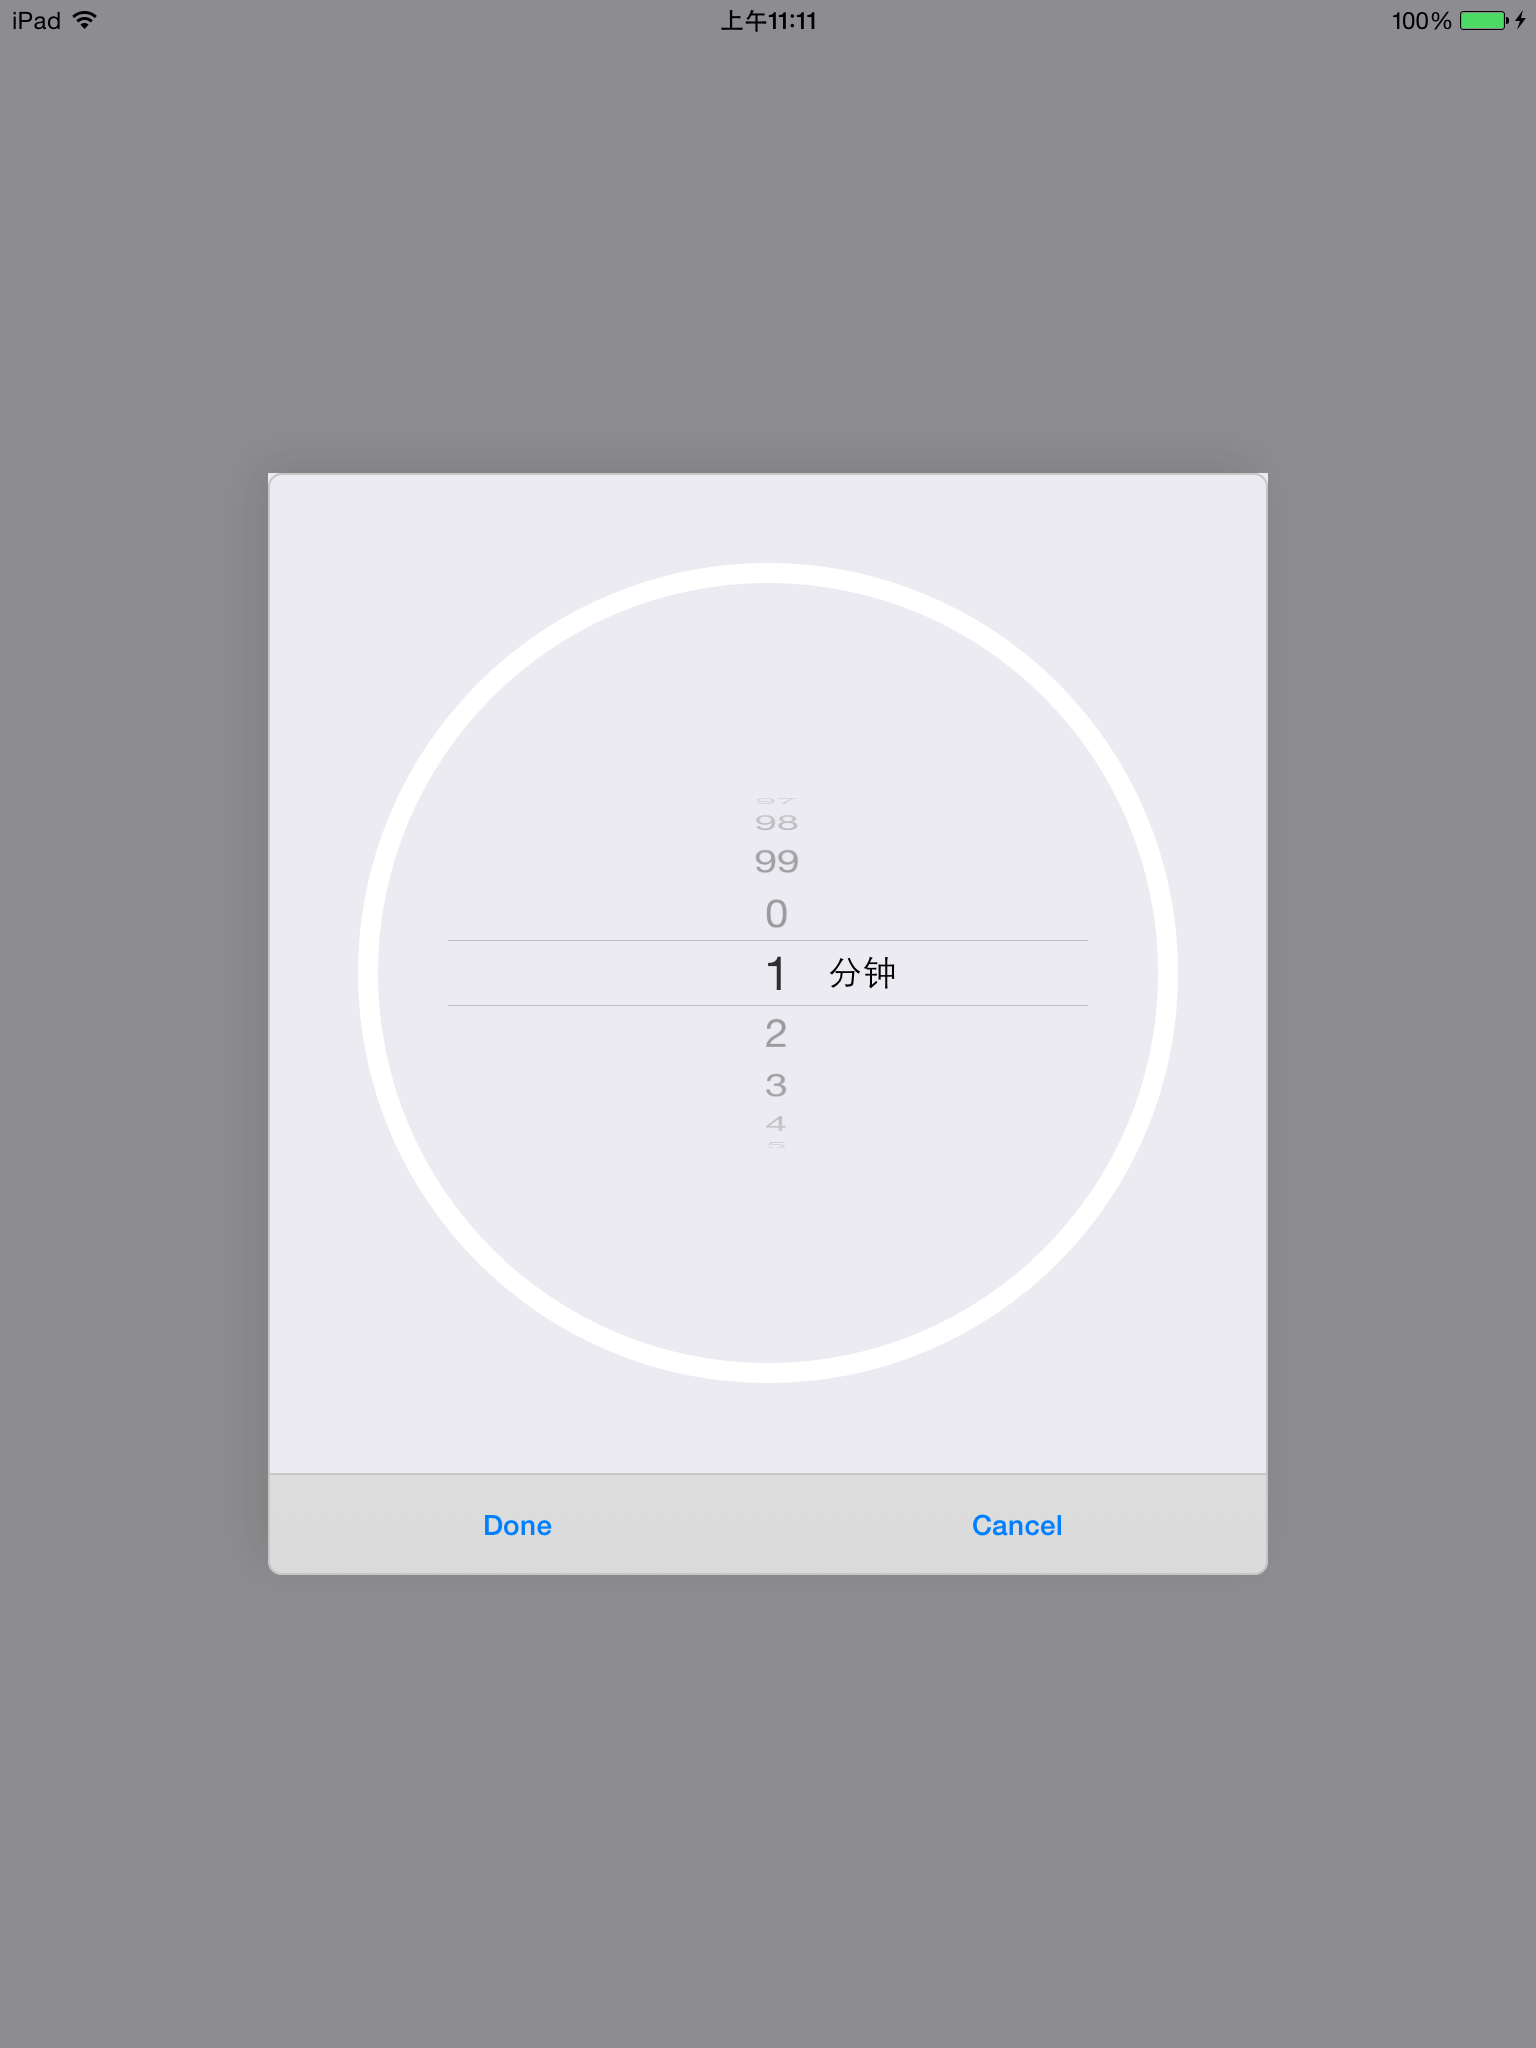
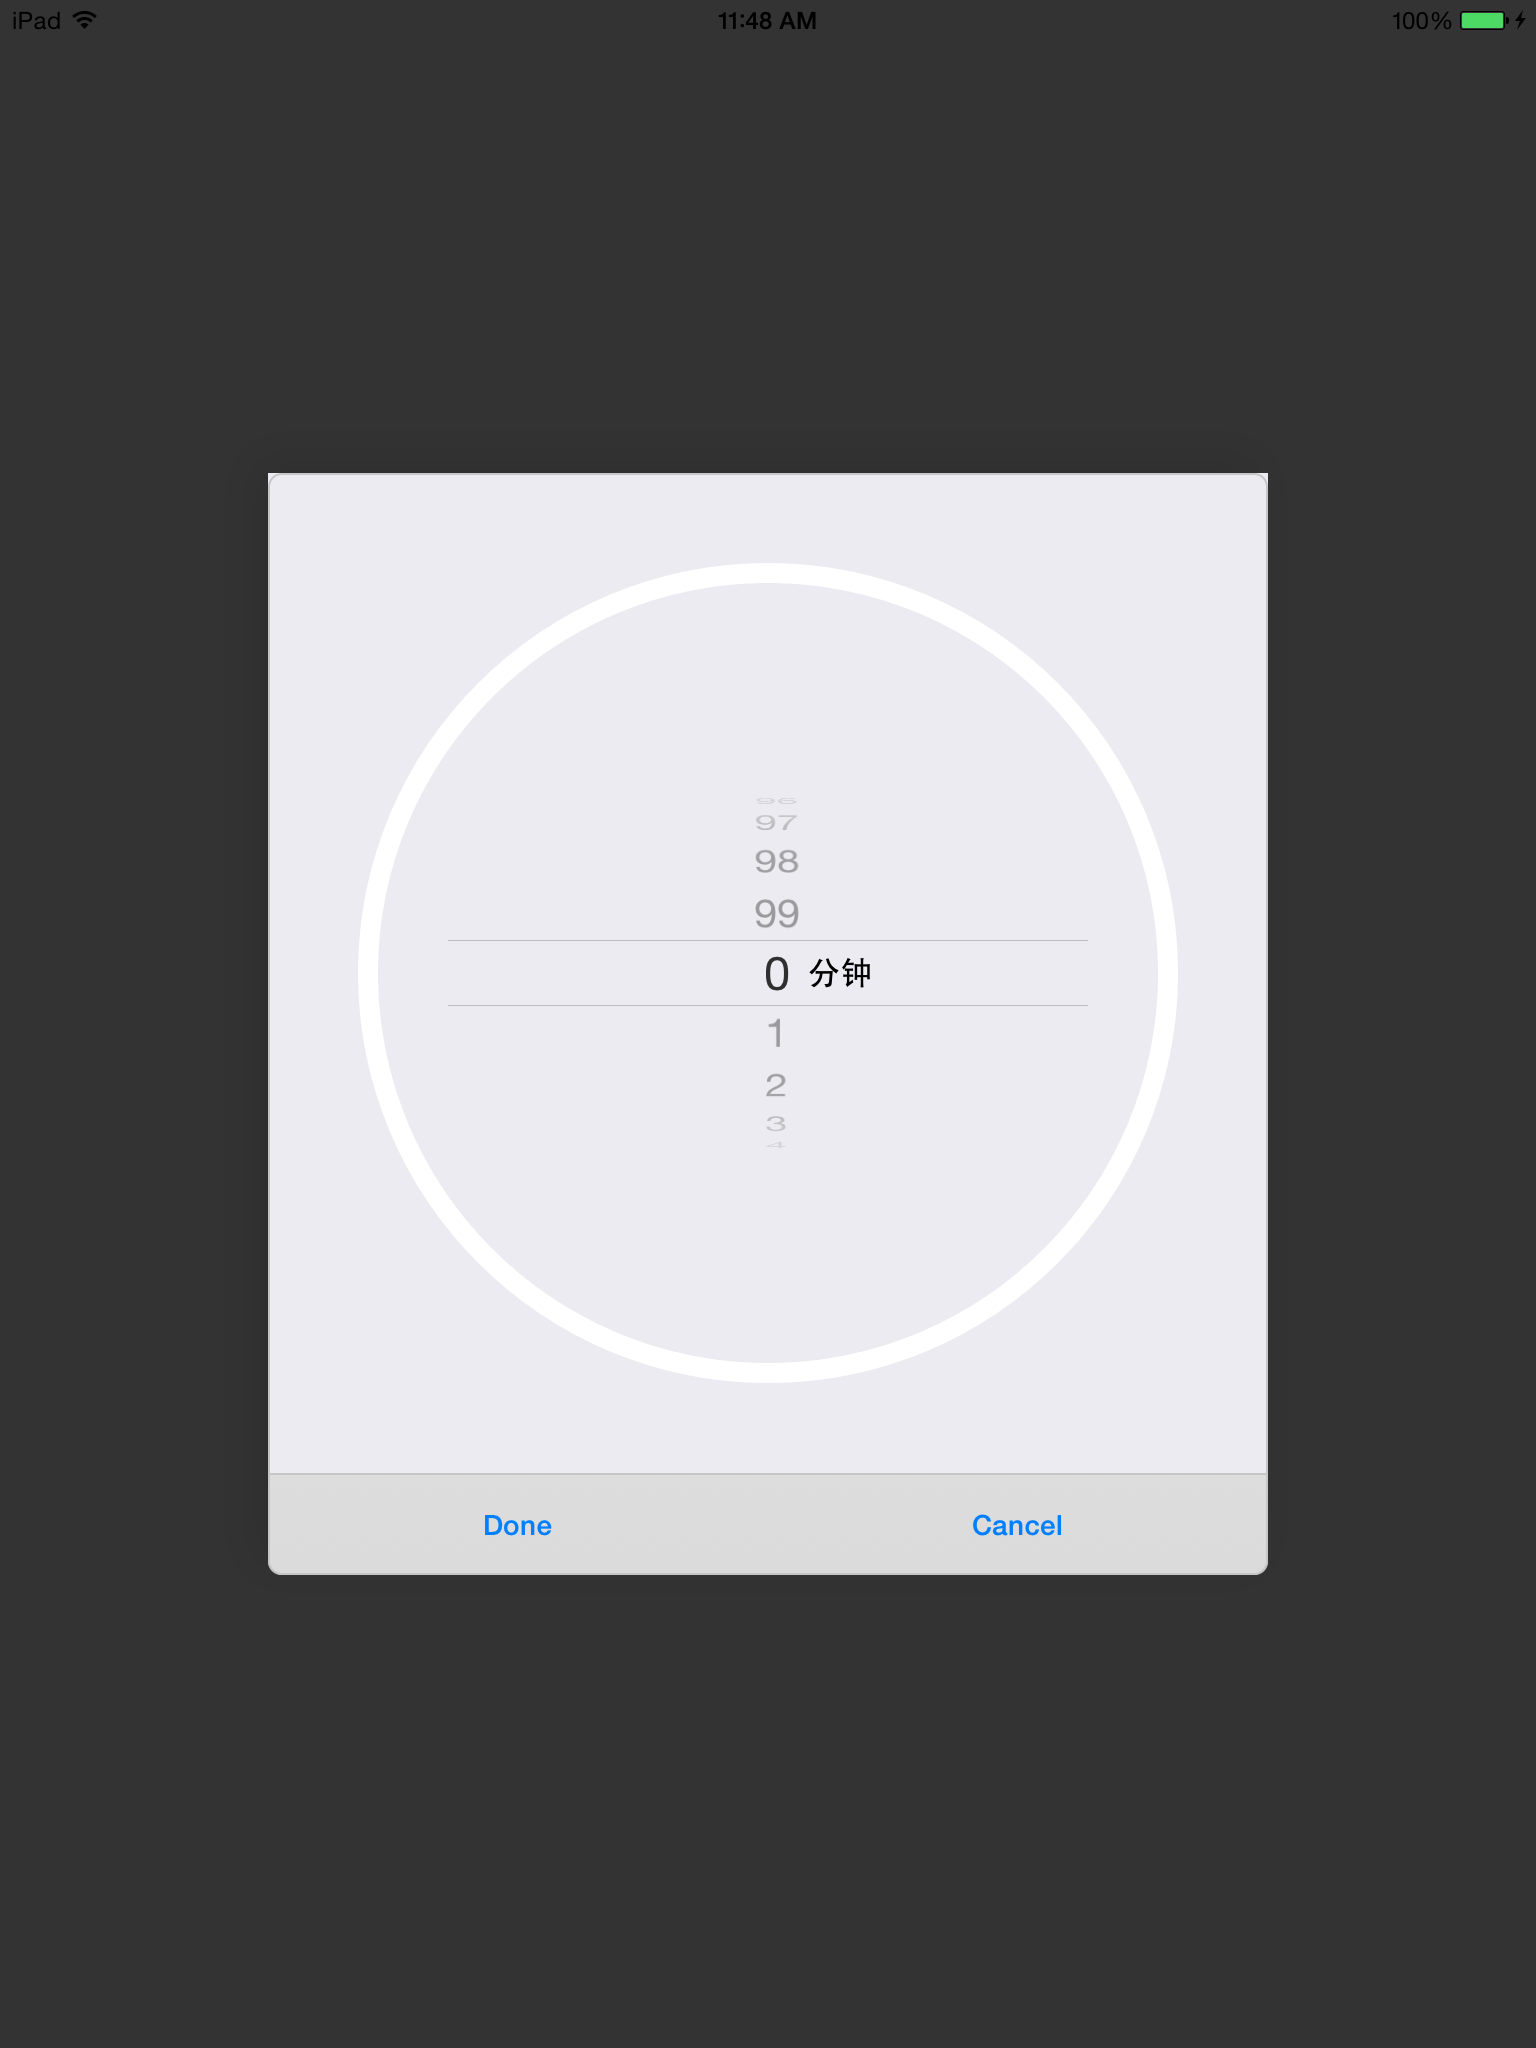
update read

diff --git a/README.md b/README.md
@@ -1,11 +1,15 @@
 # CircularProgressBar
 My test crcular progress bar
 
-![img](https://github.com/wossoneri/CircularProgressBar/blob/master/ExampleImage/Screen%20Shot%202015-10-09%20at%205.46.50%20PM.png?raw=true)
+圆形进度条和计时器
 
-![img](https://github.com/wossoneri/CircularProgressBar/blob/master/ExampleImage/Screen%20Shot%202015-10-09%20at%205.46.58%20PM.png?raw=true)
+System timer:
+![](https://github.com/wossoneri/CircularProgressBar/blob/master/ExampleImage/Screen%20Shot%202015-10-10%20at%2011.11.02%20AM.png?raw=true)
 
-single tap the view to choose time
+and my timer:
+![](https://github.com/wossoneri/CircularProgressBar/blob/master/ExampleImage/Screen%20Shot%202015-10-10%20at%2011.10.22%20AM.png?raw=true)
+chose time:
+![](https://github.com/wossoneri/CircularProgressBar/blob/master/ExampleImage/Screen%20Shot%202015-10-10%20at%2011.10.35%20AM.png?raw=true)
 
-
-程序不完善，有一些逻辑bug
+单击选择时间，确定则开始倒计时。
+UIPickerView 支持内容循环显示，单位“分钟”固定显示
